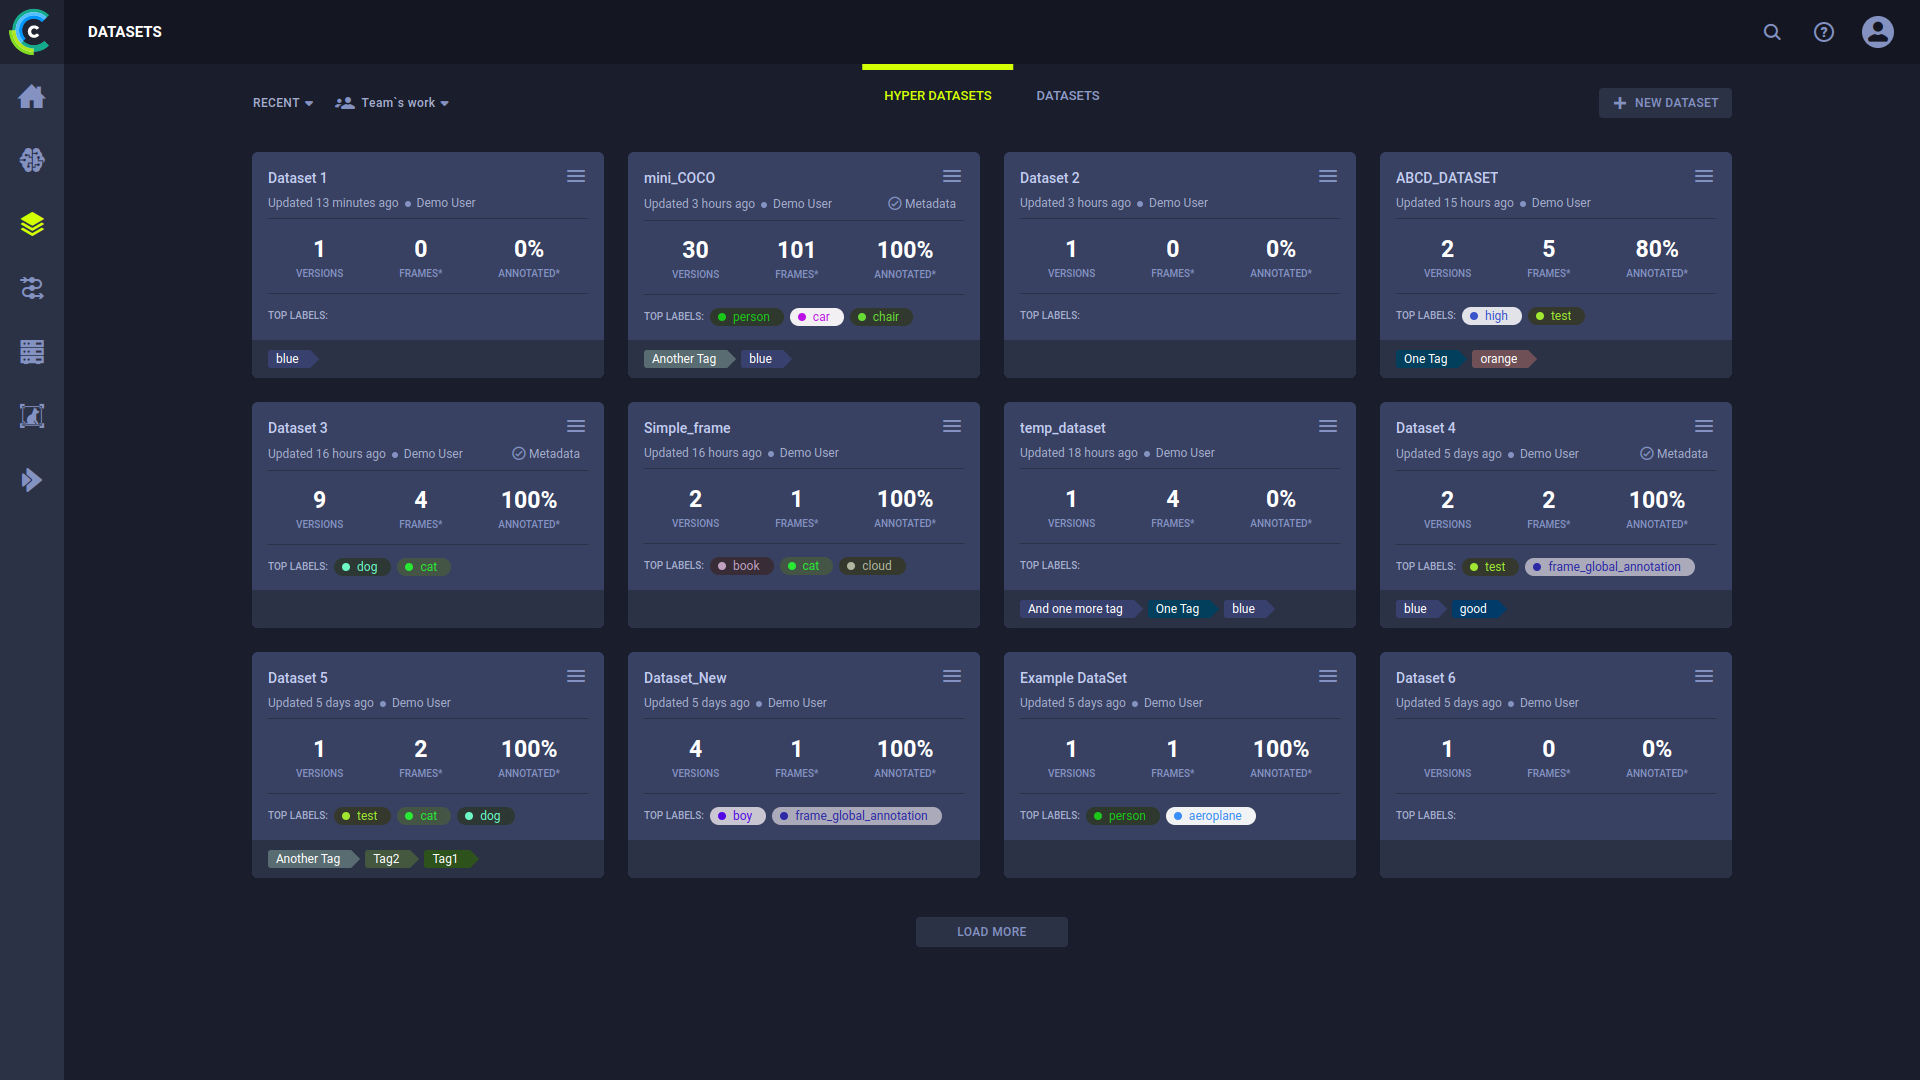
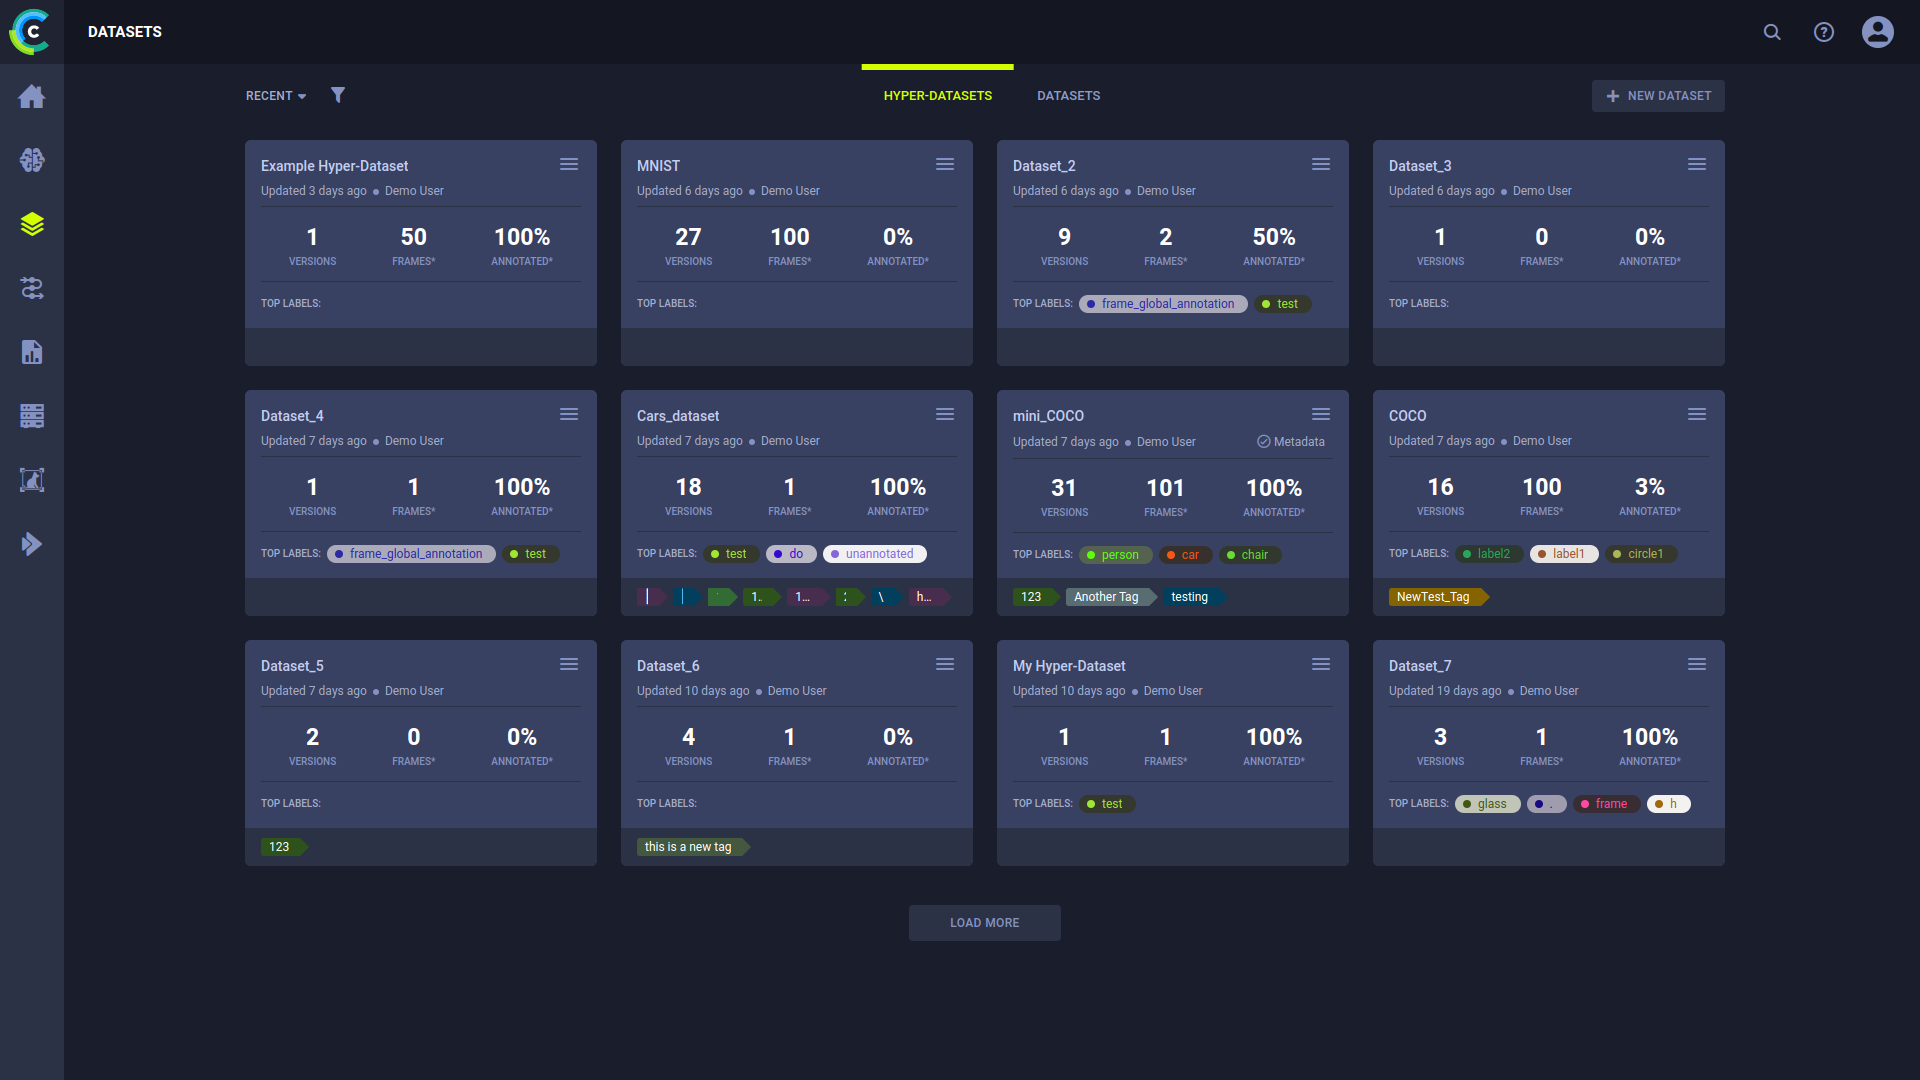
Update docs (#412)

diff --git a/sidebars.js b/sidebars.js
@@ -86,6 +86,7 @@ module.exports = {
                     'webapp/pipelines/webapp_pipeline_page', 'webapp/pipelines/webapp_pipeline_table', 'webapp/pipelines/webapp_pipeline_viewing'
                 ]
             },
+            'webapp/webapp_reports',
             'webapp/webapp_workers_queues',
             {
                 'ClearML Applications': [

diff --git a/docs/webapp/webapp_reports.md b/docs/webapp/webapp_reports.md
@@ -1,0 +1,91 @@
+---
+title: Reports
+---
+
+With ClearML’s Reports you can write up notes, experiment findings, or really anything you want. You can create reports 
+in any of your ClearML projects.
+
+In addition to its main document, a report also contains a description field, which will appear in the report's card in 
+the [Reports Page](#reports-page).
+
+Reports are editable Markdown documents, supporting:
+* Multi-level headings
+* Text formatting: Italics, bold, and strikethrough
+* Bulleted and numbered lists
+* Tables
+* Code blocks
+* Text and image hyperlinks
+* Embedded ClearML task content
+
+![Report](../img/webapp_report.png)
+
+Publishing a report locks it for future editing, so you can preserve its contents. You can also share your reports, 
+download a PDF copy, or simply copy the MarkDown content and reuse in your editor of choice.
+
+Access ClearML reports through the [Reports Page](#reports-page).
+
+## Embedding ClearML Visualizations
+You can embed plots and images from your experiments into your reports: scalar graphs and other plots, and debug samples 
+from an individual experiment or from an experiment comparison page. These visualizations are updated live as the 
+experiment(s) updates.
+
+To add a graphic resource: 
+1. Go to the resource you want to embed in your report (a plot or debug sample from an individual experiment or 
+experiment comparison) 
+2. Hover over the resource and 
+click <img src="/docs/latest/icons/ico-plotly-embed-code.svg" alt="Generate embed code" className="icon size-md space-sm" />. 
+This generates the embed code for accessing the resource and copies it to your clipboard.
+3. Return to your report page and paste the code snippet
+
+
+## Reports Page
+Use the Reports Page to navigate between and manage reports. The page shows summaries 
+for all reports.
+
+Click on a report card to access it.
+
+![Report page](../img/webapp_report_page.png)
+
+
+### Report Cards
+
+The report cards display summarized report information:
+
+<div class="max-w-50">
+
+![report card](../img/webapp_report_card.png)
+
+</div>
+
+* Report name
+* Report's project
+* Creating user
+* Last update time
+* Status
+* Description
+* Tags 
+
+#### Report Actions
+
+Click <img src="/docs/latest/icons/ico-bars-menu.svg" alt="Menu" className="icon size-md space-sm" /> on the top right
+of a report card to open its context menu and access report actions:  
+
+<div class="max-w-50">
+
+![Report card context menu](../img/webapp_report_card_context_menu.png)
+
+</div>
+
+* **Rename** - Change the report’s name
+* **Share** - Copy URL to share report
+* **Add Tag** - Add label to the report to help easily classify groups of reports.
+* **Move to** - Move the report into another project. If the target project does not exist, it is created on-the-fly.
+* **Archive** - Move report from active reports page to archive
+* **Delete** - Delete the report. To delete a report, it must first be archived. 
+
+### Create New Reports
+
+To create a new project, click the **+ NEW REPORT** button in the top right of the page, 
+which will open a **New Report** modal. 
+
+![New project modal](../img/webapp_report_new_report.png)

diff --git a/docs/webapp/webapp_exp_track_visual.md b/docs/webapp/webapp_exp_track_visual.md
@@ -230,8 +230,11 @@ General experiment details appear in the **INFO** tab. This includes information
 
 ## Experiment Results
 
-
-
+:::tip Embedding ClearML Visualization
+You can embed experiment plots and debug samples into ClearML [Reports](webapp_reports.md). These visualizations are 
+updated live as the experiment(s) updates. The Enterprise Plan supports embedding resources in external documents. See 
+[Plot Controls](#plot-controls).  
+:::
 
 ### Console
 
@@ -296,6 +299,10 @@ are on the left side of the window. The tools include:
   * **WALL** - Local clock time
 * Curve smoothing (scalars, only) - In **Smoothing** **>** Move the slider or type a smoothing factor between **0** and **0.999**.
 
+To embed scalar plots in your [Reports](webapp_reports.md), hover over a plot and click <img src="/docs/latest/icons/ico-plotly-embed-code.svg" alt="Embed code" className="icon size-md center-md" />, 
+which will copy to clipboard the embed code to put in your Reports. In contrast to static screenshots, embedded resources 
+are retrieved when the report is displayed allowing your reports to show the latest up-to-date data.
+
 See additional [plot controls](#plot-controls) below.
 
 ### Plots
@@ -340,7 +347,9 @@ These controls allow you to better analyze the results. Hover over a plot, and t
 | <img src="/docs/latest/icons/ico-download-json-plot.svg" alt="Download JSON icon" className="icon size-sm space-sm" /> | Download plot data as a JSON file. |
 | <img src="/docs/latest/icons/ico-download-csv.svg" alt="Download CSV icon" className="icon size-sm space-sm" /> | Download plot data as a CSV file. |
 | <img src="/docs/latest/icons/ico-maximize.svg" alt="Maximize plot icon" className="icon size-sm space-sm" /> | Expand plot to entire window. When used with scalar graphs, full screen mode displays plots with all data points, as opposed to an averaged plot |
-| <img src="/docs/latest/icons/ico-reset.svg" alt="Refresh" className="icon size-sm space-sm" /> | Refresh scalar graphs in full screen mode to update it  | 
+| <img src="/docs/latest/icons/ico-reset.svg" alt="Refresh" className="icon size-sm space-sm" /> | Refresh scalar graphs in full screen mode to update it.  | 
+| <img src="/docs/latest/icons/ico-plotly-embed-code.svg" alt="Embed code" className="icon size-md center-md" /> | Copy to clipboard the resource embed code to put in your [Reports](webapp_reports.md). In contrast to static screenshots, embedded resources are retrieved when the report is displayed allowing your reports to show the latest up-to-date data. |
+| <img src="/docs/latest/icons/ico-uri-copy.svg" alt="Embed code externally" className="icon size-md center-md" /> | Copy to clipboard the resource embed code to put in external editors (e.g. Notion). In contrast to static screenshots, embedded resources are retrieved when the report is displayed allowing your reports to show the latest up-to-date data (available in the ClearML Enterprise plan). |
 
 #### 3D Plot Controls 
 |Icon|Description|

diff --git a/docs/webapp/webapp_overview.md b/docs/webapp/webapp_overview.md
@@ -26,7 +26,8 @@ The ClearML Web UI is composed of the following pages:
     * [Share experiments and their models](webapp_exp_sharing.md) with other ClearML hosted service users 
     * [Archive experiments and models](webapp_archiving.md)
 * [Datasets](datasets/webapp_dataset_page.md) <img src="/docs/latest/icons/ico-side-bar-datasets.svg" alt="Datasets" className="icon size-md space-sm" /> - View and manage your datasets. 
-* [Pipelines](pipelines/webapp_pipeline_page.md) <img src="/docs/latest/icons/ico-pipelines.svg" className="icon size-md space-sm" /> - View and manage your pipelines.
+* [Pipelines](pipelines/webapp_pipeline_page.md) <img src="/docs/latest/icons/ico-pipelines.svg" alt="Pipelines" className="icon size-md space-sm" /> - View and manage your pipelines.
+* [Reports](webapp_reports.md) <img src="/docs/latest/icons/ico-reports.svg" alt="Reports" className="icon size-md space-sm" /> - View and manage your reports.
 * [Workers and Queues](webapp_workers_queues.md) <img src="/docs/latest/icons/ico-workers.svg" alt="Workers and Queues" className="icon size-md space-sm" /> - The resource monitoring and queues management page.
 * [Applications](applications/apps_overview.md)  <img src="/docs/latest/icons/ico-applications.svg" alt="ClearML Apps" className="icon size-md space-sm" /> - ClearML's GUI applications for no-code workflow execution.
 * [Settings](webapp_profile.md) (available through the profile menu <img src="/docs/latest/icons/ico-me.svg" alt="Profile button" className="icon size-lg space-sm" />) - 

diff --git a/docs/webapp/pipelines/webapp_pipeline_page.md b/docs/webapp/pipelines/webapp_pipeline_page.md
@@ -6,7 +6,15 @@ Use the **Pipelines** Page to navigate between and manage pipelines. The page sh
 [ClearML Pipelines](../../pipelines/pipelines.md).
 
 Click on a pipeline card to navigate to its [Pipeline Runs Table](webapp_pipeline_table.md), where you can view the 
-pipeline structure, configuration and outputs for all of the pipeline’s runs, as well as create new runs.
+pipeline structure, configuration, and outputs of all the pipeline’s runs, as well as create new runs.
+
+Filter the pipelines to find the one you’re looking for more easily. These filters can be applied by clicking <img src="/docs/latest/icons/ico-filter-off.svg" alt="Filter" className="icon size-md" />:
+* My Work - Show only pipelines that you created
+* Tags - Choose which tags to filter by from a list of tags used in the pipelines.
+  * Filter by multiple tag values using the **ANY** or **ALL** options, which correspond to the logical "AND" and "OR" 
+  respectively. These options appear on the top of the tag list.
+  * Filter by the absence of a tag (logical "NOT") by clicking its checkbox twice. An X will appear in the tag's checkbox.
+
 
 ![Pipelines page](../../img/webapp_pipeline_table.png)
 

diff --git a/docs/hyperdatasets/webapp/webapp_datasets.md b/docs/hyperdatasets/webapp/webapp_datasets.md
@@ -7,6 +7,13 @@ Use the Hyper-Datasets Page to navigate between and manage hyper-datasets.
 Click on a Hyper-Dataset card to open the dataset’s [version list](webapp_datasets_versioning.md), where you can view 
 and manage the dataset versions' lineage and contents. 
 
+Filter the hyper-datasets to find the one you’re looking for more easily. These filters can be applied by clicking <img src="/docs/latest/icons/ico-filter-off.svg" alt="Filter" className="icon size-md" />:
+* My Work - Show only hyper-datasets that you created
+* Tags - Choose which tags to filter by from a list of tags used in the hyper-datasets.
+  * Filter by multiple tag values using the **ANY** or **ALL** options, which correspond to the logical "AND" and "OR" 
+  respectively. These options appear on the top of the tag list.
+  * Filter by the absence of a tag (logical "NOT") by clicking its checkbox twice. An X will appear in the tag's checkbox.
+
 
 ![Hyper-Dataset page](../../img/hyperdatasets/datasets_01.png)
 

diff --git a/docs/webapp/datasets/webapp_dataset_page.md b/docs/webapp/datasets/webapp_dataset_page.md
@@ -13,6 +13,13 @@ for all datasets created using [ClearML Data](../../clearml_data/clearml_data.md
 Click on a dataset card to navigate to its [Version List](webapp_dataset_viewing.md), where you can view the 
 dataset versions' lineage and contents. 
 
+Filter the datasets to find the one you’re looking for more easily. These filters can be applied by clicking <img src="/docs/latest/icons/ico-filter-off.svg" alt="Filter" className="icon size-md" />:
+* My Work - Show only datasets that you created
+* Tags - Choose which tags to filter by from a list of tags used in the datasets.
+  * Filter by multiple tag values using the **ANY** or **ALL** options, which correspond to the logical "AND" and "OR" 
+  respectively. These options appear on the top of the tag list.
+  * Filter by the absence of a tag (logical "NOT") by clicking its checkbox twice. An X will appear in the tag's checkbox.
+
 ![Dataset page](../../img/webapp_dataset_page.png)
 
 
